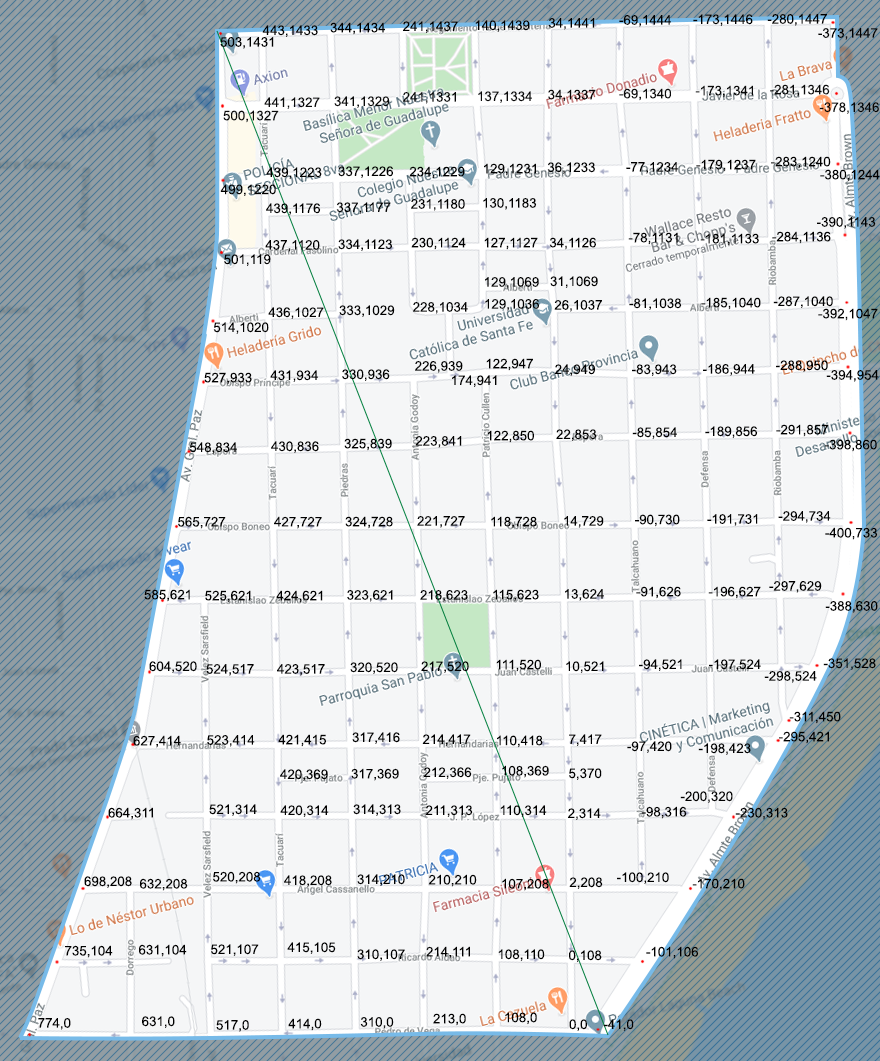
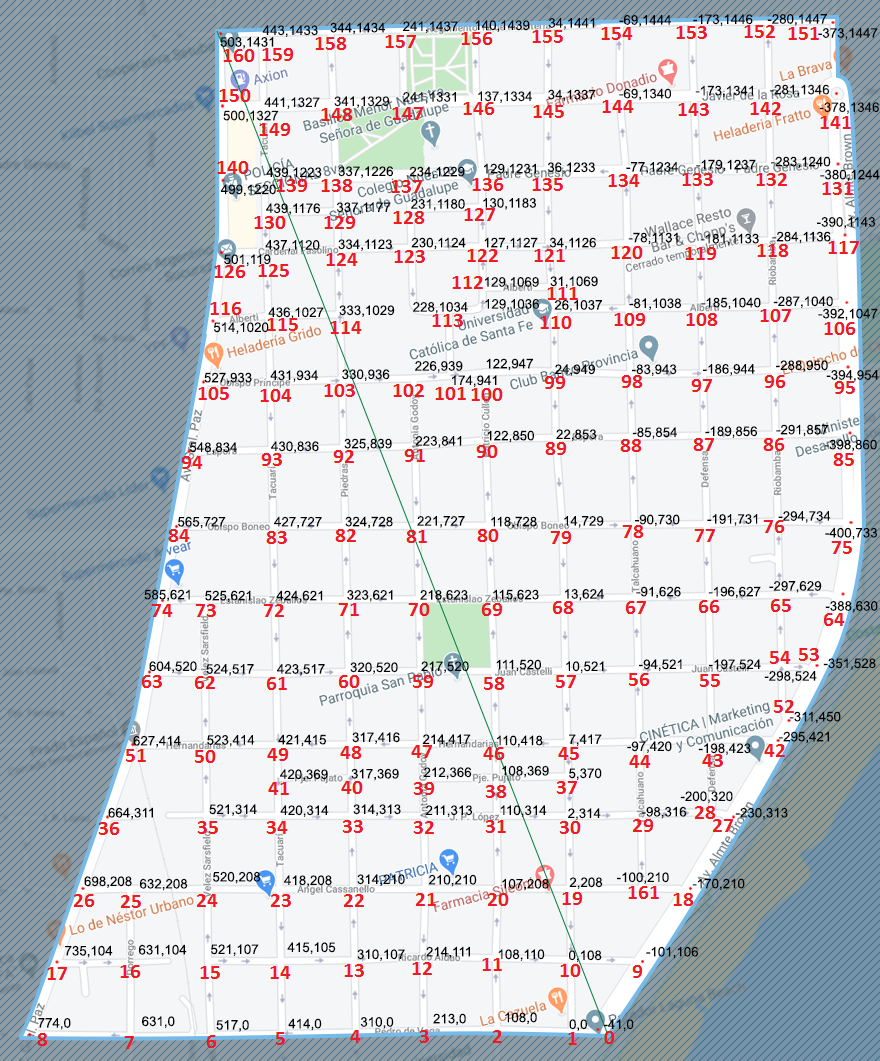
Verificado mapa de nodos

diff --git a/src/utn/ia2020/tp/busquedainfectados/covid/RobotcovidAgentState.java b/src/utn/ia2020/tp/busquedainfectados/covid/RobotcovidAgentState.java
@@ -26,10 +26,10 @@ public class RobotcovidAgentState extends SearchBasedAgentState {
 	private static ArrayList<Integer> cargarInfectados() {
 		ArrayList<Integer> listaInfectados = new ArrayList<Integer>();
 		
-		listaInfectados.add(3);
-		listaInfectados.add(40);
-		listaInfectados.add(12);
-		listaInfectados.add(24);
+		//listaInfectados.add(3);
+		listaInfectados.add(120);
+		//listaInfectados.add(12);
+		//listaInfectados.add(24);
 		
 		return listaInfectados;
 	}
@@ -315,9 +315,9 @@ public class RobotcovidAgentState extends SearchBasedAgentState {
 	        {"21", "12", "22", "20"},
 	        {"22", "33", "23", "21"},
 	        {"23", "14", "24", "22"},
-	        {"24", "25", "23"},
+	        {"24", "25", "23", "35"},
 	        {"25", "16", "26", "24"},
-	        {"26", "36", "17"},
+	        {"26", "25", "36", "17"},
 	        
 	        
 //	        {"27", "18", "37"},
@@ -332,7 +332,7 @@ public class RobotcovidAgentState extends SearchBasedAgentState {
 //	        {"36", "26"},
 	        
 	        
-	        {"27", "18", "37"},
+	        {"27", "18", "42"},
 	        {"28", "27"},
 	        {"29", "44", "28"},
 	        {"30", "19", "29"},
@@ -348,15 +348,15 @@ public class RobotcovidAgentState extends SearchBasedAgentState {
 	        {"40", "48", "41"},
 	        {"41", "34", "40"},
 	        {"42", "27", "52", "43"},
-	        {"43", "28", "53", "44"},
-	        {"44", "54", "45"},
+	        {"43", "28", "44"},
+	        {"44", "56", "45"},
 	        {"45", "37", "46"},
-	        {"46", "56", "47"},
+	        {"46", "58", "47"},
 	        {"47", "39", "48"},
-	        {"48", "58", "49"},
+	        {"48", "60", "49"},
 	        {"49", "41", "50"},
-	        {"50", "60", "51"},
-	        {"51", "36", "61"},
+	        {"50", "62", "51"},
+	        {"51", "36", "63"},
 	        {"52", "53", "54", "42"},
 	        {"53", "64", "52"},
 	        {"54", "65", "53"},
@@ -420,8 +420,8 @@ public class RobotcovidAgentState extends SearchBasedAgentState {
 	        {"112", "122", "111"},
 	        {"113", "112", "101"},
 	        {"114", "115", "124"},
-	        {"115", "114", "104", "116"},
-	        {"116", "115", "105", "126"},
+	        {"115", "104", "116"},
+	        {"116", "105", "126"},
 	        {"117", "106", "131"},
 	        {"118", "132", "117"},
 	        {"119", "108", "118"},
@@ -431,7 +431,7 @@ public class RobotcovidAgentState extends SearchBasedAgentState {
 	        {"123", "113", "122"},
 	        {"124", "129", "123"},
 	        {"125", "115", "124"},
-	        {"126", "116", "140"},
+	        {"126", "116", "125", "140"},
 	        {"127", "128", "136"},
 	        {"128", "123"},
 	        {"129", "130", "138"},
@@ -456,7 +456,7 @@ public class RobotcovidAgentState extends SearchBasedAgentState {
 	        {"148", "158", "147"},
 	        {"149", "139", "148"},
 	        {"150", "140", "160", "149"},
-	        {"151", "152"},
+	        {"151", "152", "141"},
 	        {"152", "153"},
 	        {"153", "143", "154"},
 	        {"154", "155"},
